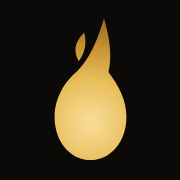
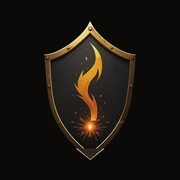
b=196: the shield crest takes the header
The user's Leonardo mark: a gold-rimmed shield bearing the falling
ember, striking sparks where it lands. Background knocked out by edge
flood-fill, the source's watermark cleaned by mirroring the intact left
half over the bottom and redrawing the tip's last rows procedurally.
New crest webps (app + landing), favicons, and apple-touch-icon.

Changed region(s): [[0.25, 0.1111, 0.75, 0.8889]]

diff --git a/frontend/public/index.html b/frontend/public/index.html
@@ -12,7 +12,7 @@
 <link rel="preconnect" href="https://fonts.googleapis.com" />
 <link rel="preconnect" href="https://fonts.gstatic.com" crossorigin />
 <link href="https://fonts.googleapis.com/css2?family=Cinzel:wght@500;600;700;900&family=EB+Garamond:ital,wght@0,400;1,400;1,500&family=JetBrains+Mono:wght@400;700&family=Outfit:wght@400;500;600;700;800&display=swap" rel="stylesheet" />
-<link rel="stylesheet" href="style.css?b=195" />
+<link rel="stylesheet" href="style.css?b=196" />
 </head>
 <body>
 <script>try { if (localStorage.getItem('emberfall_theme') === 'light') { document.body.classList.add('theme-light'); document.querySelector('meta[name=theme-color]').setAttribute('content', '#f0dc9e'); } } catch (e) { }</script>
@@ -597,16 +597,16 @@
   </div>
 </div>
 
-<script>window.BUILD = 195;</script>
-<script src="analytics.js?b=195"></script>
-<script src="sha3.js?b=195"></script>
-<script src="config.js?b=195"></script>
-<script src="art.js?b=195"></script>
-<script src="catalog.js?b=195"></script>
-<script src="wallets.js?b=195"></script>
-<script src="app.js?b=195"></script>
-<script src="progress.js?b=195"></script>
-<script src="sounds.js?b=195"></script>
-<script src="tutorial.js?b=195"></script>
+<script>window.BUILD = 196;</script>
+<script src="analytics.js?b=196"></script>
+<script src="sha3.js?b=196"></script>
+<script src="config.js?b=196"></script>
+<script src="art.js?b=196"></script>
+<script src="catalog.js?b=196"></script>
+<script src="wallets.js?b=196"></script>
+<script src="app.js?b=196"></script>
+<script src="progress.js?b=196"></script>
+<script src="sounds.js?b=196"></script>
+<script src="tutorial.js?b=196"></script>
 </body>
 </html>
